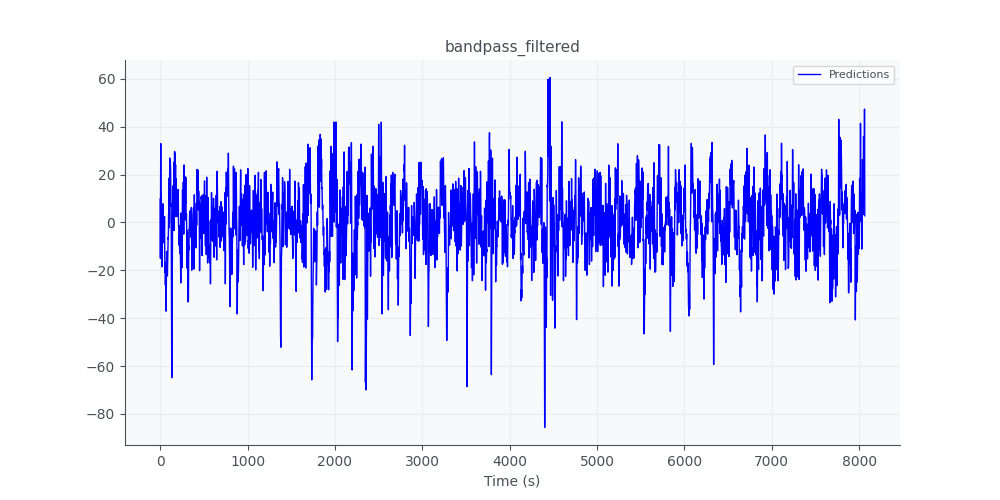
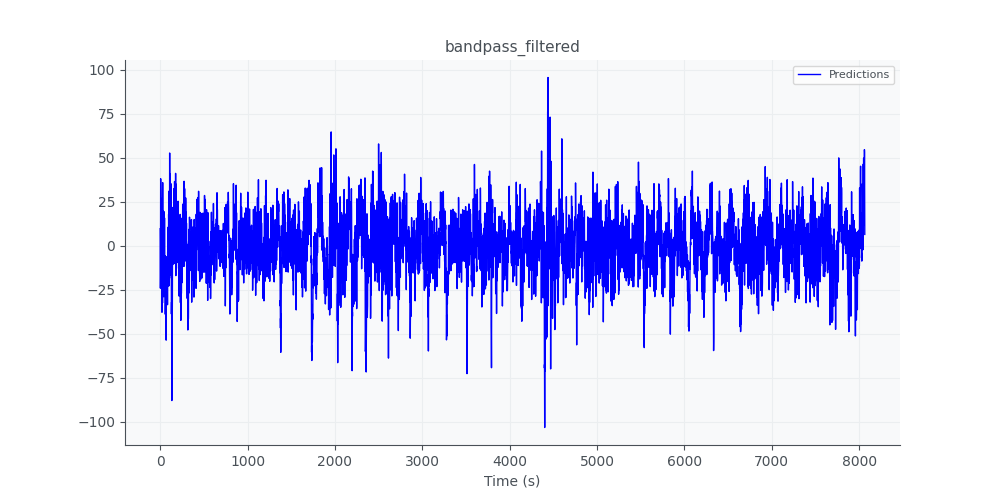
Changing models and some other stuff

diff --git a/dataloaders/DEAP_dataloader.py b/dataloaders/DEAP_dataloader.py
@@ -73,6 +73,8 @@ class DEAPDataLoader(DataLoader):
         print("Performing min-max normalization")
         self.data = self.normalize_data(self.data)
         
+        # TODO: for debug, split after
+        # self.data = self.slice_data(self.data)
         self.train_df, self.val_df, self.test_df = self.split_data()
         self.train_df = self.slice_data(self.train_df)
         self.val_df = self.slice_data(self.val_df)
@@ -90,13 +92,24 @@ class DEAPDataLoader(DataLoader):
         print(f"Train_df length: {len(self.train_df)}")
         print(f"Val_df length: {len(self.val_df)}")
         print(f"Test_df length: {len(self.test_df)}")
+        
+        label_counts = self.train_df["valence"].value_counts()
+        print("Count before train", label_counts)
+        target_count = label_counts.min()
+        # Sample function to get balanced sample from each group
+        def balanced_sample(group):
+          return group.sample(target_count, random_state=RANDOM_SEED)
+        # Apply sample function to each group in the DataFrame 
+        self.train_df = self.train_df.groupby('valence').apply(balanced_sample)
+        print("Count after train", self.train_df["valence"].value_counts())
 
-        # target_count = label_counts.min()
-        # # Sample function to get balanced sample from each group
-        # def balanced_sample(group):
-        #   return group.sample(target_count, random_state=RANDOM_SEED)
-        # # Apply sample function to each group in the DataFrame 
-        # self.data = self.data.groupby('valence').apply(balanced_sample)
+        label_counts = self.val_df["valence"].value_counts()
+        print("Count before val", label_counts)
+        target_count = label_counts.min()
+        # Sample function to get balanced sample from each group
+        # Apply sample function to each group in the DataFrame 
+        self.val_df = self.val_df.groupby('valence').apply(balanced_sample)
+        print("Count after val", self.val_df["valence"].value_counts())
 
     def load_data(self) -> pd.DataFrame:
         data_dir = os.path.join(DATA_DIR, "DEAP", "data")
@@ -145,7 +158,7 @@ class DEAPDataLoader(DataLoader):
 
       return smoothed_data
 
-    def bandpass_filter_ppg(self, data, fs=128, lowcut=0.5, highcut=20, order=5):
+    def bandpass_filter_ppg(self, data, fs=128, lowcut=0.5, highcut=40, order=5):
       """
       Bandpass filters a PPG signal using a Butterworth filter.
 
@@ -188,15 +201,13 @@ class DEAPDataLoader(DataLoader):
                 if _max > min_max_mapping[subject]["_max"]:
                     min_max_mapping[subject]["_max"] = _max
         
-        # alpha = 1000
-        alpha = 1
-        a, b = [-1,1]
+        a, b = [0,1]
         new_df = []
         for i, row in df.iterrows():
             ppg, subject, valence = row["ppg"], row["subject"], row["valence"]
             # _min, _max = min_max_mapping[subject]["_min"], min_max_mapping[subject]["_max"] 
             _min, _max = min(ppg), max(ppg)
-            ppg = (a + ((ppg - _min)*(b-a)) / (_max - _min)) * alpha
+            ppg = a + ((ppg - _min)*(b-a)) / (_max - _min)
             new_df.append({"ppg": ppg, "valence": valence, "subject": subject})
         return pd.DataFrame(new_df)
 
@@ -278,7 +289,9 @@ class DEAPDataLoader(DataLoader):
           windows = []
 
           # Iterate through potential peaks
-          for peak_index in potential_peaks.nonzero()[0]:
+          PEAK_STEP = 5
+          for i in range(0, len(potential_peaks.nonzero()[0]), PEAK_STEP):
+            peak_index = potential_peaks.nonzero()[0][i]
             # Call the slice function for each peak
             sliced_window = self.slice_ppg_window(ppg_signal, peak_index, window_size)
             windows.append(sliced_window)
@@ -291,7 +304,6 @@ class DEAPDataLoader(DataLoader):
 
           return windows    
 
-    #TODO: take a single pulse for each window, and align it in the center
     def slice_data(self, df, length=LENGTH, step=STEP) -> pd.DataFrame:
         if length > 3000:
             raise ValueError(f"Length cannot be greater than original length")
@@ -306,14 +318,13 @@ class DEAPDataLoader(DataLoader):
                     continue
 
                 #Remove low quality sliced that comes from low quality signal
-                if len((np.diff(np.sign(np.diff(ppg_segment))) > 0).nonzero()[0]) > 3:
-                    # plot_signal(ppg_segment, f"debug_plots/bad_slices/slice_{i}")
+                if len((np.diff(np.sign(np.diff(ppg_segment))) > 0).nonzero()[0]) > 7:
+                    # plot_signal(ppg_segment, f"debug_plots/bad_slices/slice_{i}_{row_i}")
                     continue 
                 
                 # Only keep signals that have the peak on the center
-                if not 30 <= np.argmax(ppg_segment) <= 80:
-                    continue
-
+                # if not 30 <= np.argmax(ppg_segment) <= 80:
+                #     continue
         
                 # plot_signal(ppg_segment, f"debug_plots/slices/after_slice_{i}_{row_i}")
 
@@ -327,8 +338,8 @@ class DEAPDataLoader(DataLoader):
     
     def discretize_labels(self, valence: torch.Tensor) -> List[float]:
         self.labels = torch.full_like(valence, -1)
-        self.labels[(valence >= 1) & (valence <= 3) ] = 0 
-        self.labels[(valence >= 3) & (valence <= 6) ] = 1
+        self.labels[(valence >= 1) & (valence < 3) ] = 0 
+        self.labels[(valence >= 3) & (valence < 6) ] = 1
         self.labels[(valence >= 6) & (valence <= 9) ] = 2
         return self.labels.tolist()
 

diff --git a/models/EmotionNetDEAP.py b/models/EmotionNetDEAP.py
@@ -7,13 +7,13 @@ import torch.nn.functional as F
 class EmotionNet(nn.Module):
     def __init__(self, num_classes, input_size, num_layers=LSTM_NUM_LAYERS, hidden_size=LSTM_HIDDEN_SIZE, dropout_p=DROPOUT_P):
         super().__init__() 
+        input_size = 128
         self.lstm = nn.LSTM(input_size=input_size,
                             hidden_size=hidden_size,
                             num_layers=num_layers,
                             batch_first=True,
-                            dropout=dropout_p,
-                            bidirectional=False
-                            )
+                            # dropout=dropout_p,
+                            bidirectional=False)
         self.CNN_block = nn.Sequential(
             nn.Conv2d(
                 in_channels=1,
@@ -30,72 +30,69 @@ class EmotionNet(nn.Module):
                 in_channels=8, 
                 out_channels=16,
                 kernel_size=3,
-                stride=1,
-                padding=1
-                      ),
+                stride=1),
             nn.BatchNorm2d(16),
             nn.ReLU(),
             nn.MaxPool2d(kernel_size=4, stride=4),
             nn.Dropout(p=dropout_p), 
-            # nn.Conv2d(
-            #     in_channels=16,
-            #     out_channels=32,
-            #     kernel_size=3,
-            #     stride=1,
-            #     padding=1
-            #           ),
-            # nn.BatchNorm2d(32),
-            # nn.ReLU(),
-            # nn.MaxPool2d(kernel_size=4, stride=4),
-            # nn.Dropout(p=dropout_p),
+            nn.Conv2d(
+                in_channels=16,
+                out_channels=32,
+                kernel_size=3,
+                stride=1),
+            nn.BatchNorm2d(32),
+            nn.ReLU(),
+            nn.MaxPool2d(kernel_size=4, stride=4),
+            nn.Dropout(p=dropout_p),
         )
 
         self.CNN_block_1d = nn.Sequential(
             nn.Conv1d(
                 in_channels=1,
-                out_channels=10,
-                kernel_size=3,
-                stride=1),
-            nn.BatchNorm1d(10),
+                out_channels=64,
+                kernel_size=3),
+            nn.BatchNorm1d(64),
             nn.ReLU(),
             nn.MaxPool1d(kernel_size=2),
             nn.Dropout(p=dropout_p),
             nn.Conv1d(
-                in_channels=10,
-                out_channels=20,
-                kernel_size=3,
-                stride=1),
-            nn.BatchNorm1d(20),
+                in_channels=64,
+                out_channels=128,
+                kernel_size=3),
+            nn.BatchNorm1d(128),
             nn.ReLU(),
             nn.MaxPool1d(kernel_size=2),
             nn.Dropout(p=dropout_p),
+            nn.Flatten()
         )
 
-        self.fc = nn.Sequential(
-                nn.Linear(660, 512),
-                nn.Linear(512, EMOTION_NUM_CLASSES))
+        # self.fc = nn.Sequential(
+        #         nn.Linear(256, 128),
+        #         nn.ReLU(),
+        #         nn.Dropout(0.5),
+        #         nn.Linear(128, 64),
+        #         nn.ReLU(),
+        #         nn.Linear(64, EMOTION_NUM_CLASSES))
+        self.fc = nn.Linear(7936, EMOTION_NUM_CLASSES)
 
-        # self.fc = nn.Linear(512, EMOTION_NUM_CLASSES)
-        # self.fc = nn.Linear(hidden_size, EMOTION_NUM_CLASSES)
     def forward(self, x):
         x = x.unsqueeze(1)
-        CNN_embedding = self.CNN_block_1d(x)
-        CNN_embedding = torch.flatten(CNN_embedding, start_dim=1) 
+        final= self.CNN_block_1d(x)
+        # CNN_embedding = torch.flatten(CNN_embedding, start_dim=1) 
 
-        # x_lstm = torch.squeeze(x, 1)
-        # x_lstm = x_lstm.permute(0, 2, 1)
+        # x_lstm = CNN_embedding.permute(0, 2, 1)
 
         # Should be (batch, seq, feature)
         # print(f"lstm x shape is: {x_lstm.shape}")
 
         # lstm_output, _ = self.lstm(x_lstm)
         # lstm_embedding = lstm_output[:, -1, :]
+        # final = torch.flatten(lstm_embedding, start_dim=1) 
 
         # complete_embedding = torch.cat([CNN_embedding, lstm_embedding], dim=1)
-        complete_embedding = CNN_embedding
         # complete_embedding = lstm_embedding
-        output_logits = self.fc(complete_embedding)  
+        out = self.fc(final)  
         # print(f"output logits are: {output_logits}")
         # print(f"preds are: {output_logits.argmax(1)}")
         # return F.log_softmax(output_logits, dim=-1)
-        return output_logits
+        return out

diff --git a/config.py b/config.py
@@ -34,9 +34,9 @@ RESUME_EPOCH = ""
 # Train configurations
 BATCH_SIZE = 128 # Max (for ViT): 256 | Max (for CNN): 64
 N_EPOCHS = 500
-LR = 1e-3
+LR = 0.001
 REG = 0
-DROPOUT_P = 0
+DROPOUT_P = 0.2
 
 # ----------------------------
 
@@ -97,10 +97,9 @@ OFFLINE_VIDEO_FILE = os.path.join(VIDEO_DATASET_DIR, "test_video_real.mp4") # Of
 
 # EmotionNet Configurations
 EMOTION_NUM_CLASSES = 3  # Bad mood, neutral, good mood
-LENGTH = 140 #800 seemed to work
-STEP = 140
-
+LENGTH = 256
+STEP = 256
 WT = False #Wheter to perform or not Wavelet Transform on PPG before feeding it to the model
-WAVELET_STEP = 32
+WAVELET_STEP = 1
 LSTM_HIDDEN = 256
 LSTM_LAYERS = 2

diff --git a/utils/ppg_utils.py b/utils/ppg_utils.py
@@ -21,7 +21,7 @@ def wavelet_transform(x: torch.Tensor | np.ndarray):
         x = x.detach().numpy()
     # return np.zeros((LENGTH // WAVELET_STEP,  LENGTH))
     scales = np.arange(1, len(x) + 1, WAVELET_STEP)
-    coef, _ = pywt.cwt(x, scales, "morl")
+    coef, _ = pywt.cwt(x, scales, "mexh", method="conv")
     # print(f"coef shape is {coef.shape}")
     return coef
 
